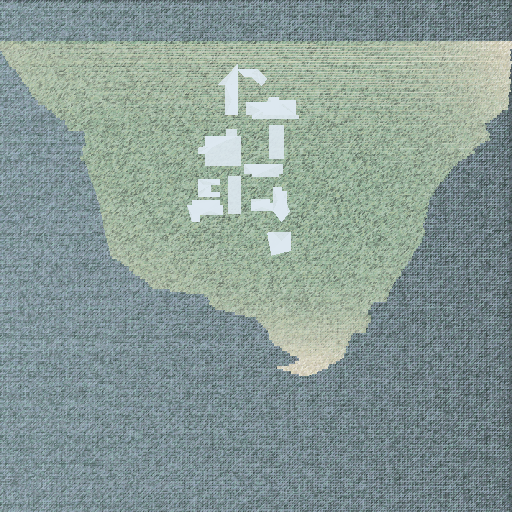
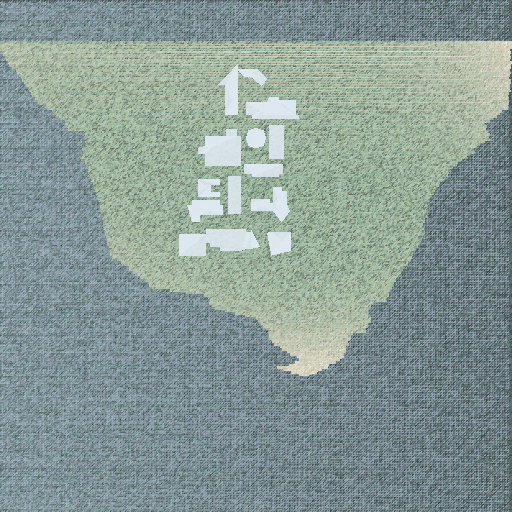
Added stitch line.. will remove since I don't like the effect.

diff --git a/draw-wardisland.py b/draw-wardisland.py
@@ -41,11 +41,17 @@ def upd(y, deltay, xl, xr, lnudge, rnudge):
 
 def drawVarBlock(ystart, xstart, xstop, deltax, deltay, nudges):
     vertices = []
+    outer_a  = []
+    outer_b  = []
     xran = (xstart, xstop)
     for nudgepair in nudges:
-        vertices = vertices + drawStrip(xran[0], ystart, xran[1], deltax, deltay)
+        verticesNew = drawStrip(xran[0], ystart, xran[1], deltax, deltay)
+        if len(verticesNew) > 0:
+            outer_a.append(verticesNew[0])
+            outer_b.append(verticesNew[-1])
+        vertices = vertices + verticesNew
         ystart, xran = upd(ystart, deltay, xran[0], xran[1], nudgepair[0], nudgepair[1])
-    return vertices
+    return vertices, outer_a, outer_b
 
 def eucdist(x0, y0, x1, y1):
     return pow(pow(x0 - x1, 2) + pow(y0 - y1, 2), 0.5)
@@ -122,6 +128,7 @@ waters = [ np.array((163, 201, 196)) / 255,
 # Shapes, curves
 shapes = []
 curves = []
+curves_loop = []
 
 #########
 # Water #
@@ -132,7 +139,7 @@ ystart = 1.0
 xstart = -1.0
 xstop  =  1.0
 nudges = [(0,0) for n in range(250)]
-water_vertices = drawVarBlock(ystart, xstart, xstop, deltax, deltay, nudges)
+water_vertices, _, _ = drawVarBlock(ystart, xstart, xstop, deltax, deltay, nudges)
 water_colors              = [(*waters[randint(0, len(waters) - 1)], 0.6) for v in range(len(water_vertices))]
 water = gloo.Program(vertex, fragment_var, count = len(water_vertices))
 water["position"]         = water_vertices
@@ -291,7 +298,7 @@ nudges = [ [0.0, 0.0],
            [0.011,0.0175],
          ]
 
-vertices                    = drawVarBlock(ystart, xstart, xstop, deltax, deltay, nudges)
+vertices, va, vb            = drawVarBlock(ystart, xstart, xstop, deltax, deltay, nudges)
 islanda_colors              = [(*greens[randint(0, len(greens) - 1)], 1) for v in range(len(vertices))]
 islanda                     = gloo.Program(vertex, fragment_var, count = len(vertices))
 islanda["position"]         = vertices
@@ -304,6 +311,20 @@ islandb                     = gloo.Program(vertex, fragment_var, count = len(ver
 islandb["position"]         = vertices
 islandb["color"]            = islandb_colors
 shapes.append(islandb)
+
+#############
+# Stitching #
+#############
+border_points = np.array(va + vb[::-1])
+border_line = gloo.Program(vertex_m, fragment_uni, count = border_points.shape[0])
+border_line["position"]   = border_points
+border_line["color"]      = (0.05, 0.05, 0.05, 0.9)
+border_line_model = np.eye(4, dtype=np.float32)
+##glm.rotate(bldg_en_model, 0.5, 1, 1, 1)
+#glm.scale(bldg_en_model, 0.02, .04, 1)
+#glm.translate(bldg_en_model, -.25, .16, 0.0)
+border_line["model"] = border_line_model
+curves_loop.append(border_line)
 
 #############
 # Buildings #
@@ -554,8 +575,6 @@ glm.translate(bldg_uc_model, -.3, .0, 0.0)
 bldg_uc["model"] = bldg_uc_model
 shapes.append(bldg_uc)
 
-
-
 ########
 # Wind #
 ########
@@ -644,18 +663,18 @@ def recordAgent(agent, time = 0.05, duration = 10, env = None):
     trajectory[i] = (agent[1], (-1) * agent[0])
     return trajectory
 
-###for agent in agents:
-###    traj = recordAgent(agent, time = 0.005, env = env)
-###    # Trajectory to line object
-###    traj_line               = gloo.Program(vertex_m, fragment_uni, count = traj.shape[0])
-###    traj_line["position"]   = traj
-###    traj_line["color"]      = (*bldgs[0], 0.4)
-###    traj_line_model = np.eye(4, dtype=np.float32)
-###    ##glm.rotate(bldg_en_model, 0.5, 1, 1, 1)
-###    #glm.scale(bldg_en_model, 0.02, .04, 1)
-###    #glm.translate(bldg_en_model, -.25, .16, 0.0)
-###    traj_line["model"] = traj_line_model
-###    curves.append(traj_line)
+for agent in agents:
+    traj = recordAgent(agent, time = 0.005, env = env)
+    # Trajectory to line object
+    traj_line               = gloo.Program(vertex_m, fragment_uni, count = traj.shape[0])
+    traj_line["position"]   = traj
+    traj_line["color"]      = (*bldgs[0], 0.4)
+    traj_line_model = np.eye(4, dtype=np.float32)
+    ##glm.rotate(bldg_en_model, 0.5, 1, 1, 1)
+    #glm.scale(bldg_en_model, 0.02, .04, 1)
+    #glm.translate(bldg_en_model, -.25, .16, 0.0)
+    traj_line["model"] = traj_line_model
+    curves.append(traj_line)
 
 
 ################
@@ -673,8 +692,11 @@ def on_draw(dt):
     for shape in shapes:
         shape.draw(gl.GL_TRIANGLE_STRIP)
 
-    #for curve in curves:
-    #    curve.draw(gl.GL_LINES)
+    for curve_loop in curves_loop:
+        curve_loop.draw(gl.GL_LINE_LOOP)
+
+    for curve in curves:
+        curve.draw(gl.GL_LINES)
 
     gl.glReadPixels(0, 0, window.width, window.height,
            gl.GL_RGB, gl.GL_UNSIGNED_BYTE, framebuffer)

diff --git a/README.md b/README.md
@@ -8,26 +8,21 @@
 
 ![alt text](wardisland_a.png "Ward Island, generated using 2D OpenGL primitives.")
 
-The image is a map of TAMUCC with a selection of buildings. 
-An objective was to give the image a fabric-like appearance.
+The image is a map of TAMUCC with a selection of buildings. The goal was to give the image a fabric-like appearance, as if the map was a sewn onto another fabric piece. The buildings are each an assemblage of triangles, constructed in their own coordinate space. Each is scaled and translated for placement on the island. The vertices were set manually, by first drawing each out on graph paper. 
 
-The map is generated by drawing strips made of numerous tiny triangles.
-The island is drawn one strip at a time. Each strip's start and stop is determined by an array of _nudges_ that shifts both ends indepedently. Negative nudges are used to increase the strip length, such as the small peninsula at the bottom tip. Each triangle vertex color is randomly selected from an array of terrain-like greens. 
+The island is generated by drawing strips made of numerous tiny triangles. Given a pair of start and stop coordinates sharing a y-coordinate, a sequence of very small triangles is generated across the screen to form a horizontal strip. The island is drawn one strip at a time, top to bottom. Each strip's start and stop is determined by an array of _nudges_ that shifts both ends indepedently. Negative nudges are used to increase the strip length, such as the small peninsula at the bottom tip. Each triangle vertex color is randomly selected from an array of terrain-like greens. 
 
-Near the shore some sandy color is visible. This was produced by replicating the island shape, randomly assigning sandy colors, and setting the opacity with a gradient. A point is selected where the distance from that point determines the opacity. This was done twice to make two sandy regions. 
-
-The background is also generated using the strips, but with all nudges set to 0 to form a rectangle. 
-
-The buildings are each an assemblage of triangles, constructed in their own coordinate space.
-They are scaled and translated for placement on the island. 
+Along the shore two sandy regions are visible. This was produced by replicating the island shape, randomly assigning sandy colors, and setting the opacity with a gradient. A point is selected where the distance from that point determines the opacity. This was done twice to make two sandy regions. The background is also generated using the strips, but with all nudges set to 0 to form a rectangle. 
            
 ### Part 2: Ward Island with weather visualization
 
 ![alt text](wardisland_b.png "Ward Island, generated using 2D OpenGL primitives.")
 
-The wind visual is based on the interaction of a vector field and a number of _agents_ that enter the scene with an initial velocity. The 5500 agents are initialy spaced along the left edge and have directions that vary in the range -pi/2 to pi/2 and their magnitudes oscillate from 0 to 1 using cosine. The agents are modified by 5x5 grid of hard-coded vector field values. This grid is then interpolated (upscaled) to 100x100. As the agents move, their velocity is modified by
-the vector field to acheive the behavior shown. The trajectories of each agent are recorded to produce the lines. The use of 5500 agents created a guaze-like effect to enhance the fabric theme. 
+While creating the island, a record is made of each strip's leftmost and rightmost vertices. These form an outline of the island. By connecting these vertices in a line, it (slightly) looks as if the island _fabric_ is stiched onto the water below. This produces the basic >100-vertex line required. 
 
+The wind visual is based on the interaction of a vector field and a number of _agents_ that enter the scene with an initial velocity. The 5500 agents are initialy spaced along the left edge and have directions that vary in the range -pi/2 to pi/2 and magnitudes that oscillate from 0 to 1 using cosine. The agents are modified by 5x5 grid of hard-coded vector field values. This grid is then interpolated (upscaled) to 100x100. Converting the direction and magnitude to u, v vector
+components was done before interpolation to reduce the number of executions of sine and cosine. As the agents move, their velocity is modified by
+the vector field to achieve the curves shown. The trajectories of each agent are recorded and the points connected into lines. The use of 5500 agents created a guaze-like effect to enhance the fabric theme. 
 
 ### Sources
 
